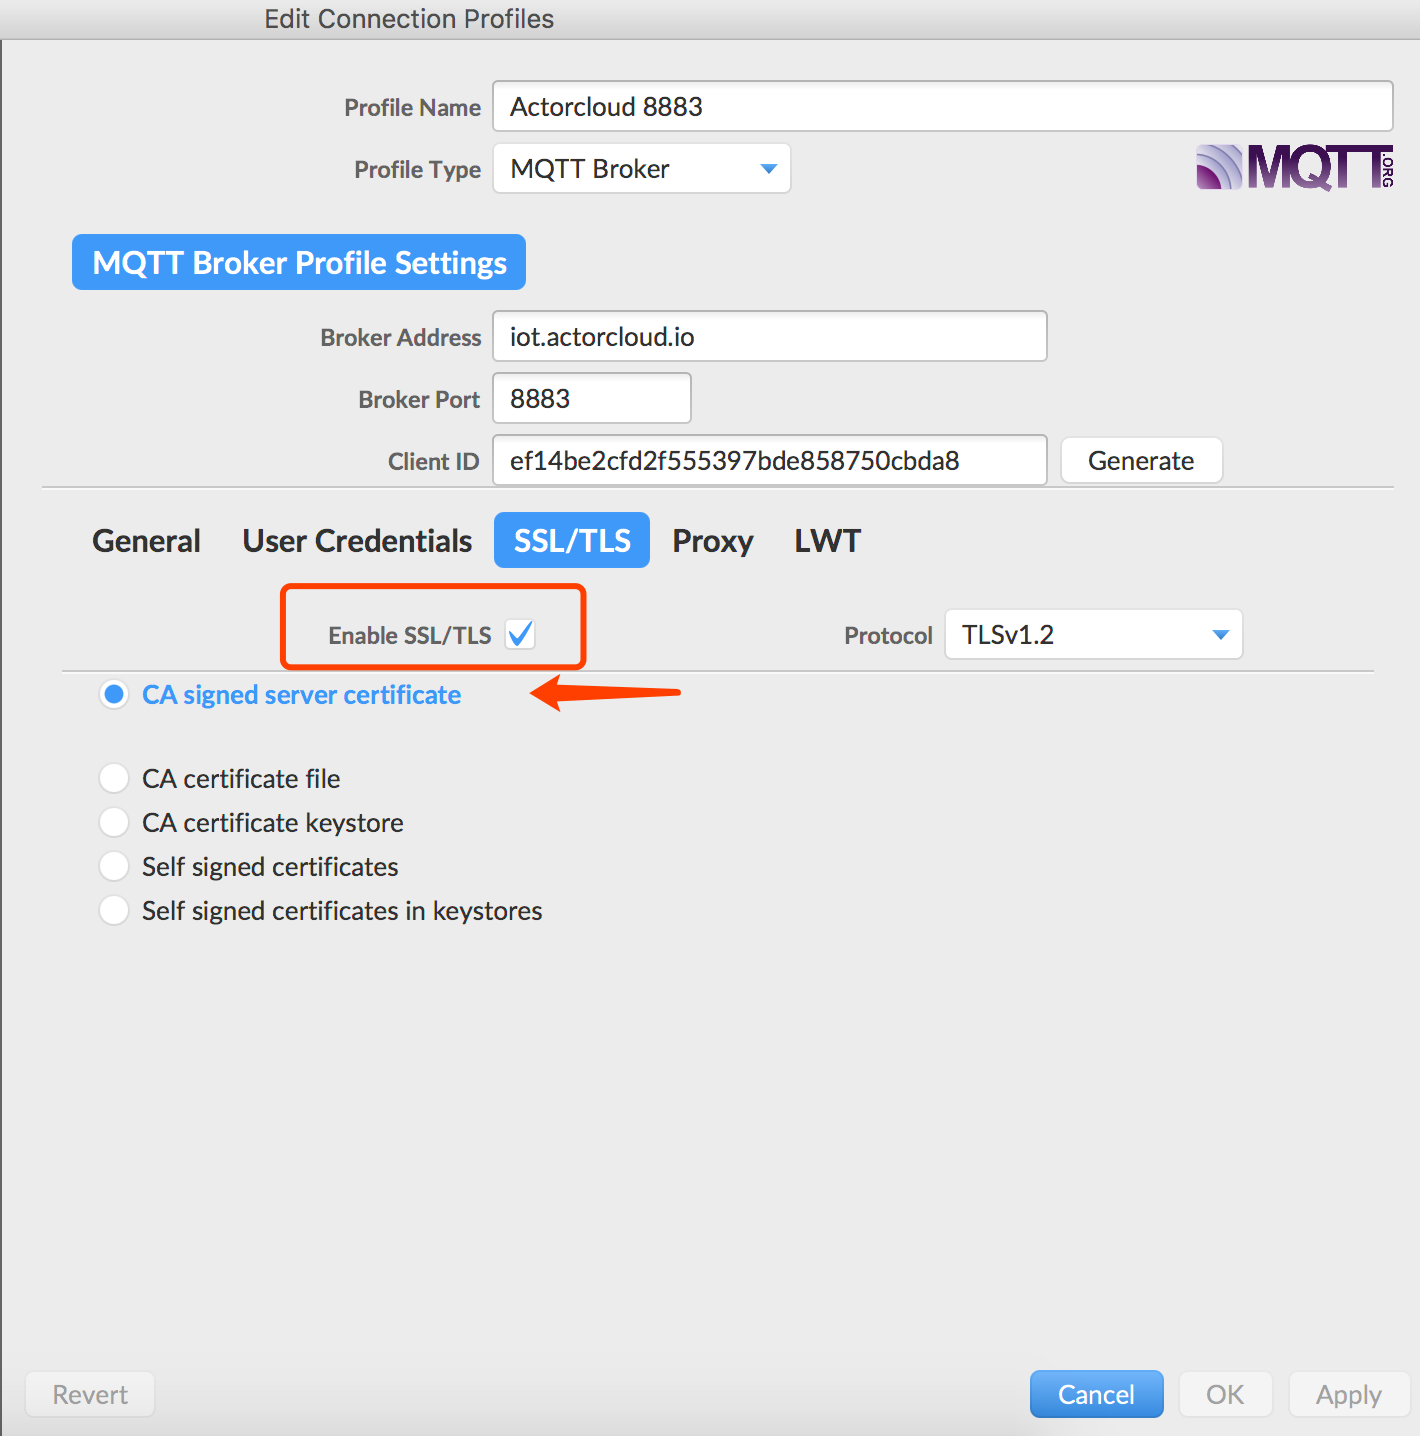
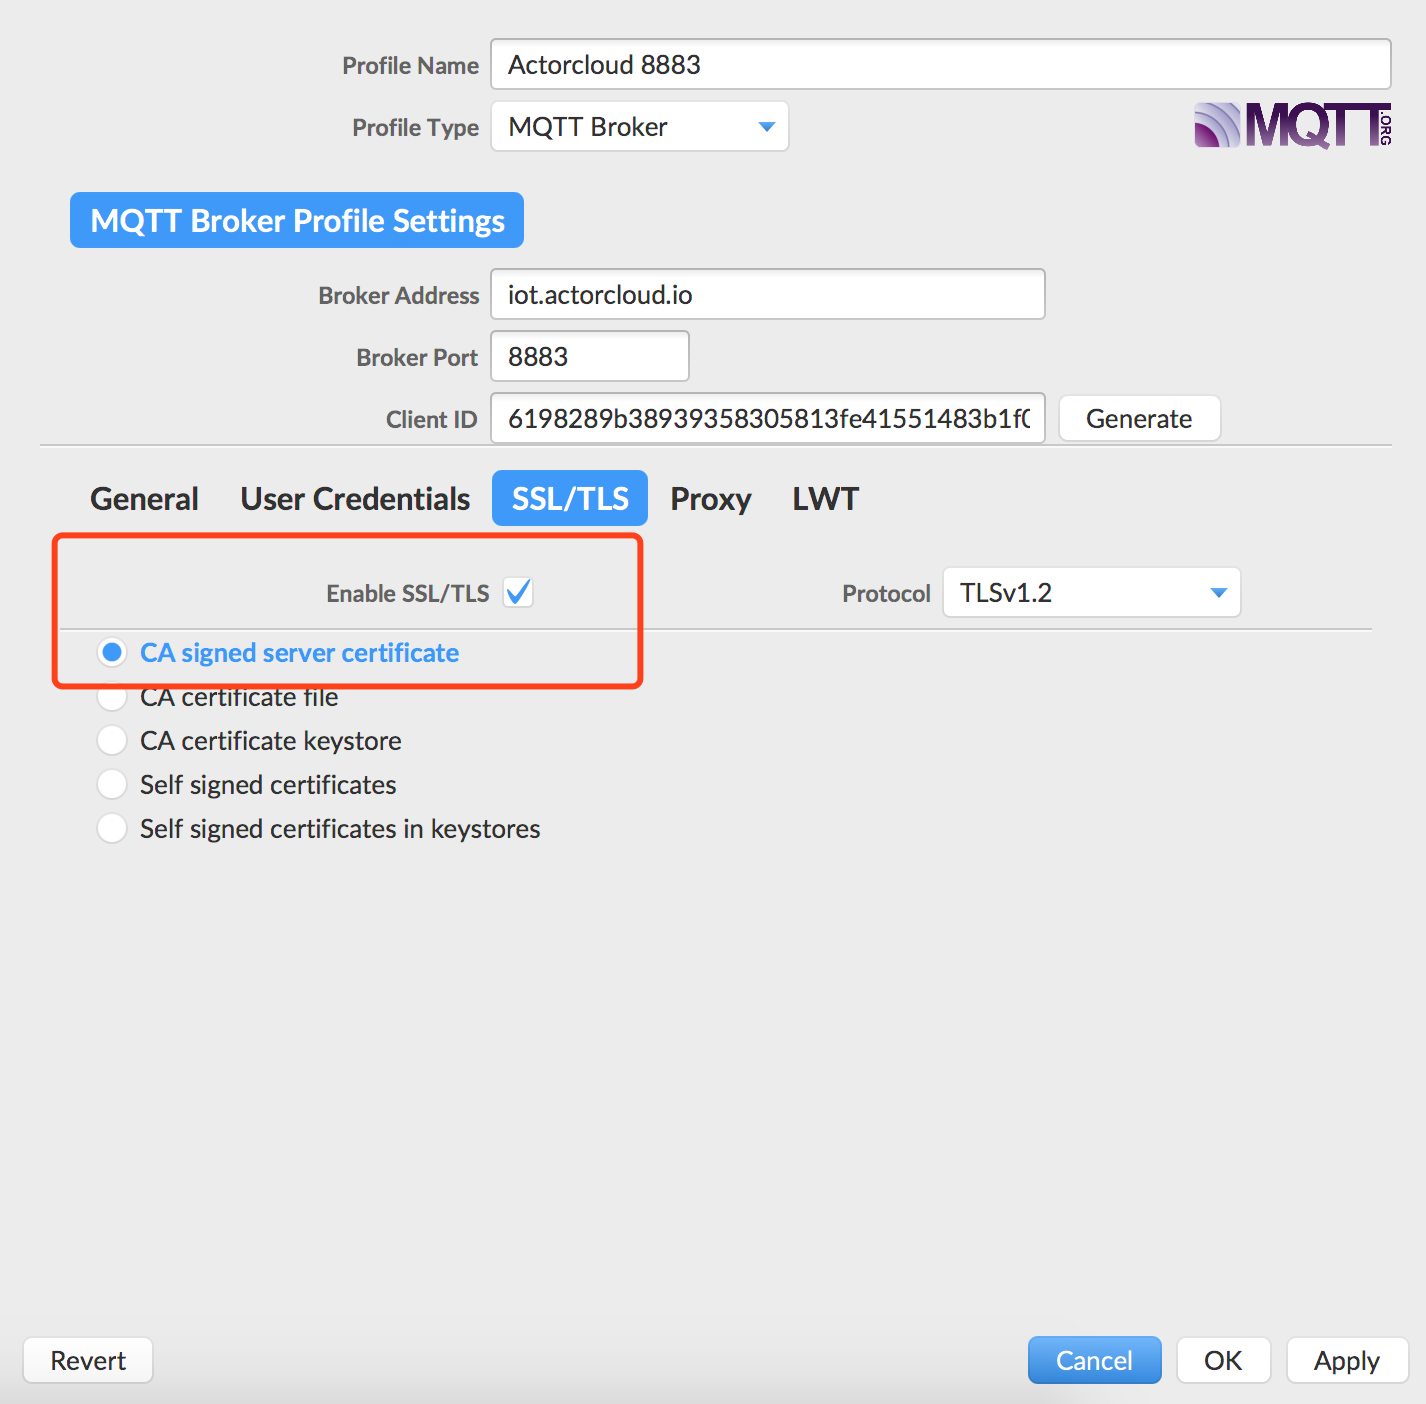
docs(devices): upgrade certs

diff --git a/zh/device/certs.md b/zh/device/certs.md
@@ -17,7 +17,7 @@
 
 ## 绑定设备
 
-- 设备使用 SSL/TLS 安全连接时应当使用已绑定证书进行加密通信，在证书详情页可以修改证书信息，管理绑定设备。
+- 设备使用 SSL/TLS 安全连接时应当使用已绑定证书进行加密通信，在证书详情页可以修改证书信息，管理绑定设备。注意：需要绑定的设备认证方式必须为证书。
 
 ![certs_bind](_assets/certs_bind.png)
 
@@ -37,7 +37,7 @@
 - 设备密钥：对应设备连接时 MQTT 连接密码；
 - 连接用户名：对应设备连接时 MQTT 连接用户名。
 
-设备详情页编码信息标签页可以查看设备认证信息:
+设备详情页的认证信息模块，可以查看设备认证信息:
 
 ![device_security](./_assets/device_security_2.png)
 
@@ -50,9 +50,9 @@ import paho.mqtt.client as mqtt
 import json
 
 # 设备需要在 ActorCloud 平台注册
-client_id = 'ef14be2cfd2f555397bde858750cbda8'
-username = 'ef14be2cfd2f555397bde858750cbda8'
-password = '53e9b7036fcb5f178d30958a563ba049'
+client_id = '6198289b38939358305813fe41551483b1f0'
+username = '6198289b38939358305813fe41551483b1f0'
+password = '2312686198f5722ef570b855694655f1b475'
 HOST = 'iot.actorcloud.io'
 PORT = 8883
 

diff --git a/zh/device/security.md b/zh/device/security.md
@@ -4,10 +4,13 @@
 
 证书接入：
 
-- 1. 接入安全等级较低时，为兼顾设备接入性能可以可以使用Token 认证在接入阶段进行认证，使用非加密的 TCP 连接通信；
-- 2. 接入安全等级较高时，在 1 的基础上可以使用 SSL/TLS 加密通信，保障数据传输阶段中的安全；
-- 3. 使用证书双向认证，将平台创建的证书绑定并烧录进设备可以提供高级别的安全保障（平台上设备认证方式需为“证书”）。
+1. 接入安全等级较低时，为兼顾设备接入性能可以可以使用 Token 认证在接入阶段进行认证，使用非加密的 TCP 连接通信；
 
-- [证书管理](./certs.md)
+2. 接入安全等级较高时，在 1 的基础上可以使用 SSL/TLS 加密通信，保障数据传输阶段中的安全；
+
+3. 使用证书双向认证，将平台创建的证书绑定并烧录进设备可以提供高级别的安全保障（平台上设备认证方式需为“证书”）。
+
+
+创建证书的方法，可参考[证书管理](./certs.md)
 
 ![init_security](_assets/init_security.png)
